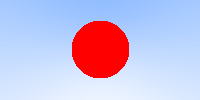
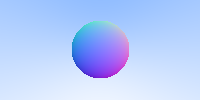
Added normal shading to sphere

Changed region(s): [[0.36, 0.21, 0.66, 0.78]]

diff --git a/source/main.cpp b/source/main.cpp
@@ -8,7 +8,7 @@
 using namespace rtow::render;
 using namespace rtow::math;
 
-bool
+float
 intersectSphere (
     Vector3 p_sphereOrigin, 
     float p_radius, 
@@ -24,20 +24,32 @@ intersectSphere (
     float discriminant = pow(b,2) - 4*a*c;
     
     // if discriminant is 0; we missed
-    // else we hit
-    return (discriminant > 0);
+    if (discriminant < 0) {
+        return -1;
+    } else {
+        return (-b - sqrt(discriminant)) / (2*a);
+    }
 }
 
 Vector3
 intersectColor (
     Ray p_r
 ) {
-    if (intersectSphere(Vector3(0, 0, -1), 0.5, p_r)) {
-        return Vector3(1, 0, 0);
+    float t = intersectSphere(Vector3(0, 0, -1), 0.5, p_r);
+    
+    // if the sphere was hit
+    if (t > 0) {
+        Vector3 uv_normal = unitVector(p_r.at(t) - Vector3(0,0,-1));
+        return 0.5 * Vector3(
+            uv_normal.x() + 1,
+            uv_normal.y() + 1, 
+            uv_normal.z() + 1
+        );            
     }
     
-    float t = 0.5f * (unitVector(p_r.direction()).y() + 1);
-    return (1 - t) * Vector3(1, 1, 1) + t * Vector3(0.5f, 0.7f, 1.0f);
+    Vector3 uv_direction = unitVector(p_r.direction());
+    t = 0.5f * (uv_direction.y() + 1);
+    return (1-t) * Vector3(1, 1, 1) + t * Vector3(0.5f, 0.7f, 1.0f);
 }
 
 int main() {
